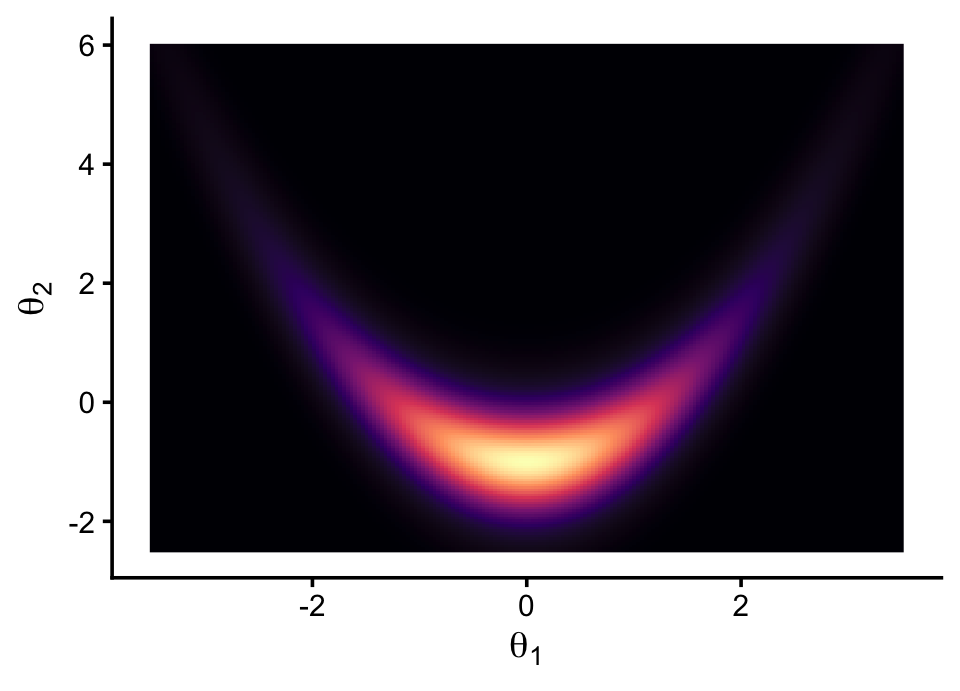
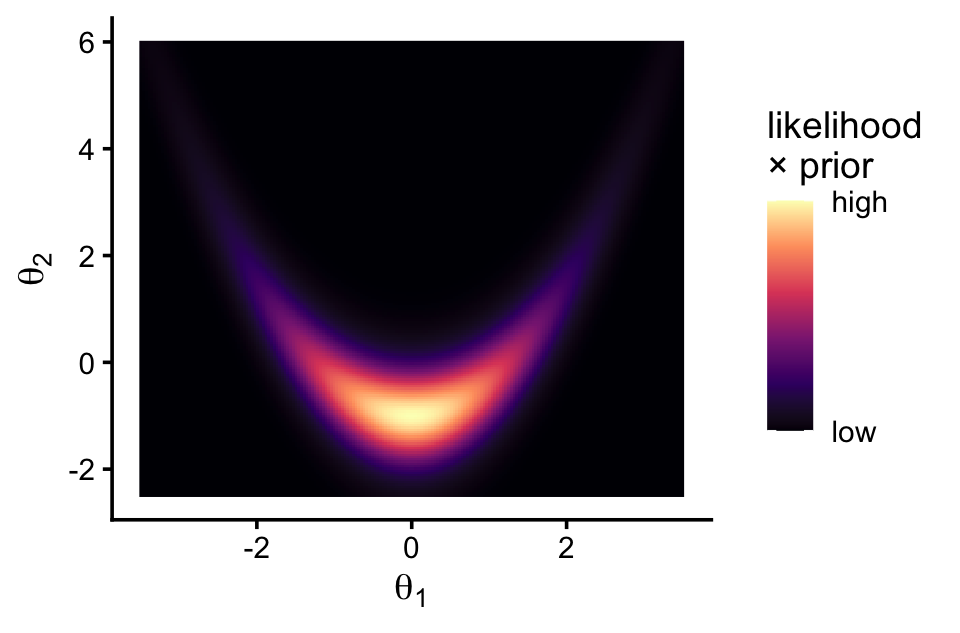
Lecture 5: label the landscape's height (legend + topographic-map sentence) and bridge to the side view on the Metropolis step slides

diff --git a/_site/mcmc-5.html b/_site/mcmc-5.html
@@ -295,7 +295,7 @@
 </section>
 <section id="the-posterior-is-a-landscape" class="slide level2 smaller nostretch">
 <h2>The posterior is a landscape</h2>
-<p>Every spot on the map is one set of parameter values. Its <strong>height</strong> is prior × likelihood: how well those values explain the data, weighted by what we believed beforehand.</p>
+<p>Every spot on the map is one set of parameter values. Its <strong>height</strong> is prior × likelihood: how well those values explain the data, weighted by what we believed beforehand. We’re looking down from above, like a topographic map: both axes are parameters, and <strong>brightness is height</strong>. (With one parameter we can see the hill from the side instead; that’s coming up.)</p>
 <div class="columns">
 <div class="column" style="width:55%;">
 <div class="cell">
@@ -308,9 +308,10 @@
 <span id="cb1-5"><a aria-label="5"></a>  <span class="fu">mutate</span>(<span class="at">height =</span> <span class="fu">exp</span>(<span class="fu">log_target</span>(x, y)))</span>
 <span id="cb1-6"><a aria-label="6"></a><span class="fu">ggplot</span>(landscape, <span class="fu">aes</span>(x, y, <span class="at">fill =</span> height)) <span class="sc">+</span></span>
 <span id="cb1-7"><a aria-label="7"></a>  <span class="fu">geom_raster</span>() <span class="sc">+</span></span>
-<span id="cb1-8"><a aria-label="8"></a>  <span class="fu">scale_fill_viridis_c</span>(<span class="at">option =</span> <span class="st">"magma"</span>, <span class="at">guide =</span> <span class="st">"none"</span>) <span class="sc">+</span></span>
-<span id="cb1-9"><a aria-label="9"></a>  <span class="fu">labs</span>(<span class="at">x =</span> <span class="fu">expression</span>(theta[<span class="dv">1</span>]), <span class="at">y =</span> <span class="fu">expression</span>(theta[<span class="dv">2</span>])) <span class="sc">+</span></span>
-<span id="cb1-10"><a aria-label="10"></a>  <span class="fu">theme_classic</span>(<span class="at">base_size =</span> <span class="dv">14</span>)</span></code></pre></div><button title="Copy to Clipboard" class="code-copy-button"><i class="bi"></i></button></div>
+<span id="cb1-8"><a aria-label="8"></a>  <span class="fu">scale_fill_viridis_c</span>(<span class="at">option =</span> <span class="st">"magma"</span>, <span class="at">name =</span> <span class="st">"likelihood</span><span class="sc">\n</span><span class="st">× prior"</span>,</span>
+<span id="cb1-9"><a aria-label="9"></a>                       <span class="at">breaks =</span> <span class="cf">function</span>(lims) lims, <span class="at">labels =</span> <span class="fu">c</span>(<span class="st">"low"</span>, <span class="st">"high"</span>)) <span class="sc">+</span></span>
+<span id="cb1-10"><a aria-label="10"></a>  <span class="fu">labs</span>(<span class="at">x =</span> <span class="fu">expression</span>(theta[<span class="dv">1</span>]), <span class="at">y =</span> <span class="fu">expression</span>(theta[<span class="dv">2</span>])) <span class="sc">+</span></span>
+<span id="cb1-11"><a aria-label="11"></a>  <span class="fu">theme_classic</span>(<span class="at">base_size =</span> <span class="dv">14</span>)</span></code></pre></div><button title="Copy to Clipboard" class="code-copy-button"><i class="bi"></i></button></div>
 </details>
 <div class="cell-output-display">
 <div>
@@ -405,8 +406,9 @@
 </section>
 <section id="metropolis-step-by-step-1" class="slide level2">
 <h2>Metropolis, step by step (1)</h2>
-
-<img data-src="met1.png" class="r-stretch"></section>
+<p>Now the side view: one parameter along the bottom, and height (likelihood × prior) on the y-axis. Same idea, same hiker.</p>
+<img data-src="met1.png" class="r-stretch">
+</section>
 <section id="metropolis-step-by-step-2" class="slide level2">
 <h2>Metropolis, step by step (2)</h2>
 
